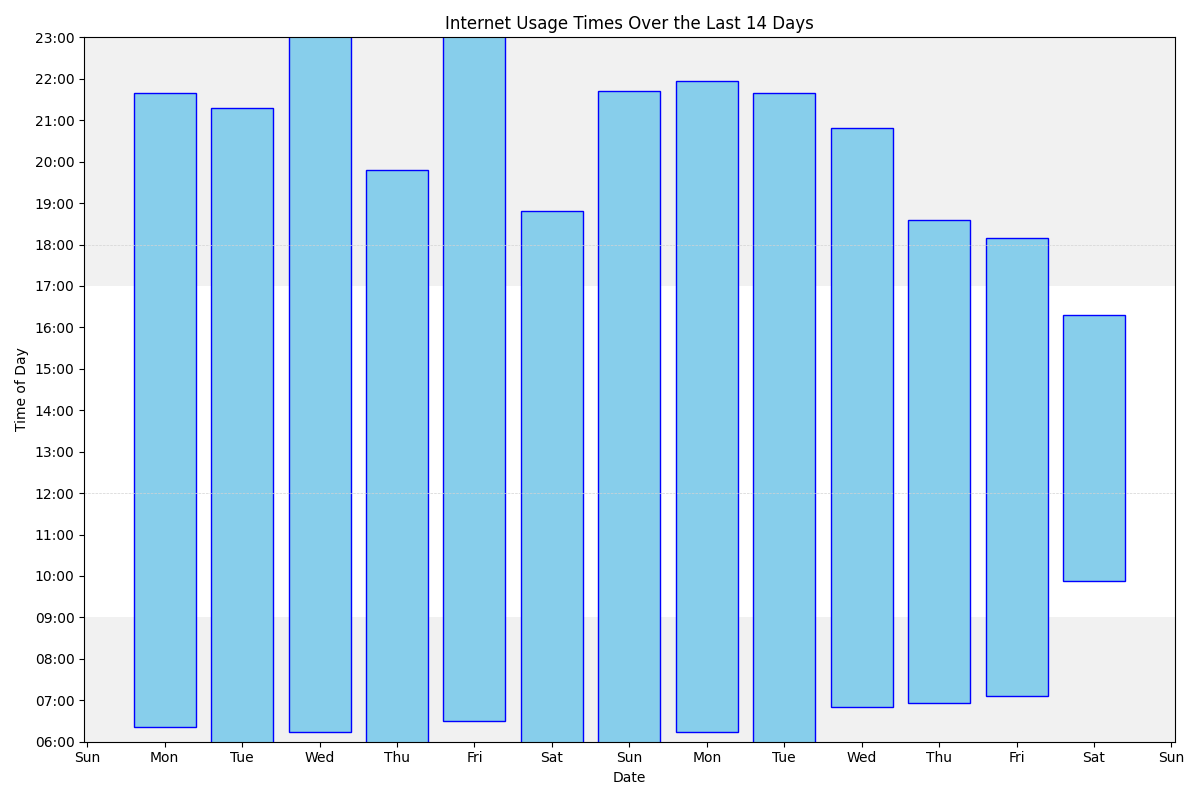
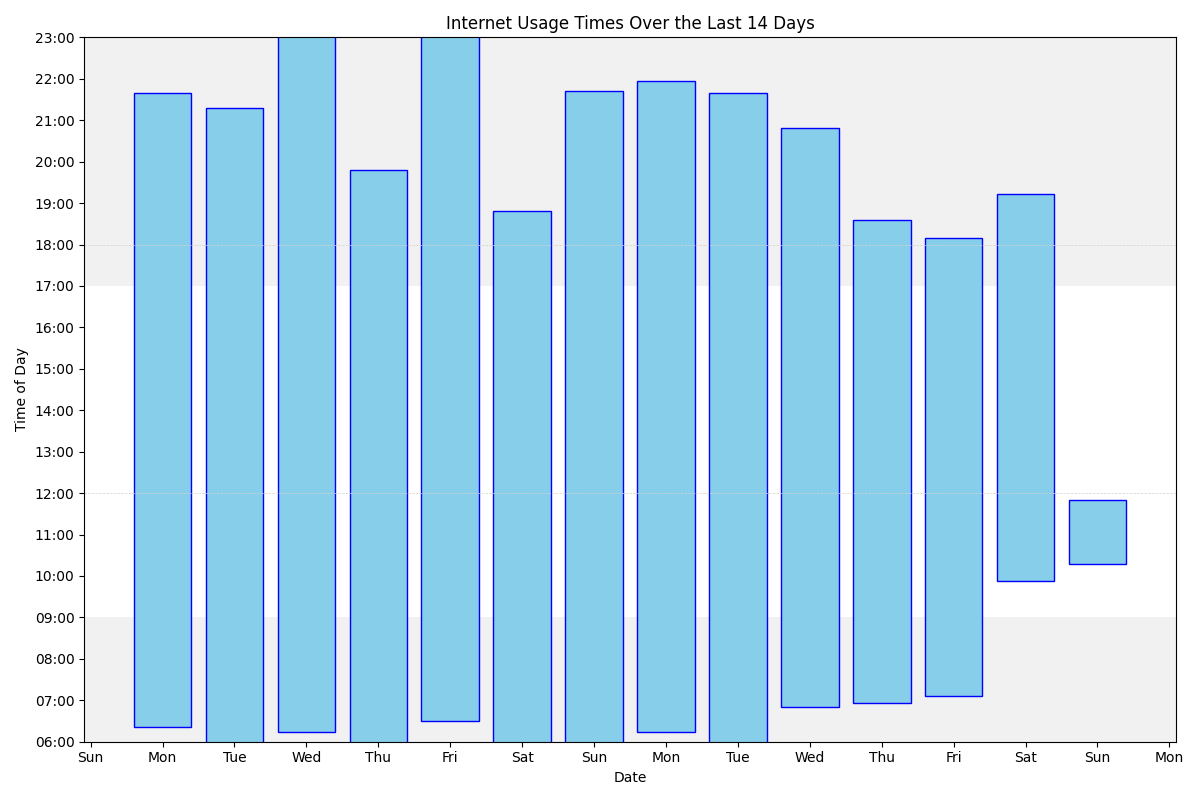
Update

diff --git a/index.md b/index.md
@@ -68,16 +68,16 @@ ul>li::after {
 <h3> Most common sites</h3>
 With number of accesses/minutes in parentheses
 
-<ol><li>www.google.com (2961)</li>
+<ol><li>www.google.com (2964)</li>
 <li>outlook.office.com (2566)</li>
 <li>mail.google.com (2446)</li>
 <li>docs.google.com (1930)</li>
 <li>bsky.app (1457)</li>
 <li>outlook.office365.com (1432)</li>
 <li>www.facebook.com (1394)</li>
-<li>www.reddit.com (1369)</li>
+<li>www.reddit.com (1373)</li>
 <li>duckduckgo.com (1000)</li>
-<li>www.theguardian.com (786)</li>
+<li>www.theguardian.com (795)</li>
 <li>www.amazon.co.uk (717)</li>
 <li>chatgpt.com (711)</li>
 <li>calendar.google.com (490)</li>
@@ -104,7 +104,54 @@ With number of accesses/minutes in parentheses
 
 <ul></ul>
 
+<H3>Sunday, 18/05/25</H3>
+
+<br>
+
+<ul><li> 11:49 <a href="https://www.bbc.co.uk/news/articles/cgr5nen5gxyo">M&S and Co-Op: BBC reporter on talking to the hackers - BBC News</a></li>
+<li> 11:49 <a href="https://www.bbc.co.uk/news">Home - BBC News</a></li>
+<li> 11:49 <a href="https://www.bbc.co.uk/naidheachdan">Naidheachdan - BBC Naidheachdan</a></li>
+<li> 11:49 <a href="https://www.bbc.co.uk/news">Home - BBC News</a></li>
+<li> 11:49 www.theguardian.com</li>
+</ul>
+
+<br>
+
+<ul><li class='same'> 11:05 www.theguardian.com</li>
+<li class='same'> 11:04 www.theguardian.com</li>
+<li class='same'> 10:53 www.theguardian.com</li>
+<li class='same'> 10:52 www.theguardian.com</li>
+</ul>
+
+<br>
+
+<ul><li class='same'> 10:19 www.theguardian.com</li>
+<li> 10:17 www.reddit.com</li>
+</ul>
+
 <H3>Saturday, 17/05/25</H3>
+
+<br>
+
+<ul></ul>
+
+<br>
+
+<ul><li class='same'> 19:12 www.reddit.com</li>
+<li> 19:12 www.google.com</li>
+<li> 19:11 www.reddit.com</li>
+<li> 19:11 www.google.com</li>
+<li> 19:10 www.reddit.com</li>
+<li> 19:10 www.google.com</li>
+<li> 19:10 www.theguardian.com</li>
+</ul>
+
+<br>
+
+<ul><li class='same'> 17:56 www.theguardian.com</li>
+<li> 17:56 www.chess.com</li>
+<li> 17:56 www.theguardian.com</li>
+</ul>
 
 <br>
 
@@ -157,7 +204,12 @@ With number of accesses/minutes in parentheses
 
 <br>
 
-<ul><li> 09:53 www.chess.com</li>
+<ul><li> 10:23 www.chess.com</li>
+</ul>
+
+<br>
+
+<ul><li class='same'> 09:53 www.chess.com</li>
 <li> 09:53 www.google.com</li>
 </ul>
 
